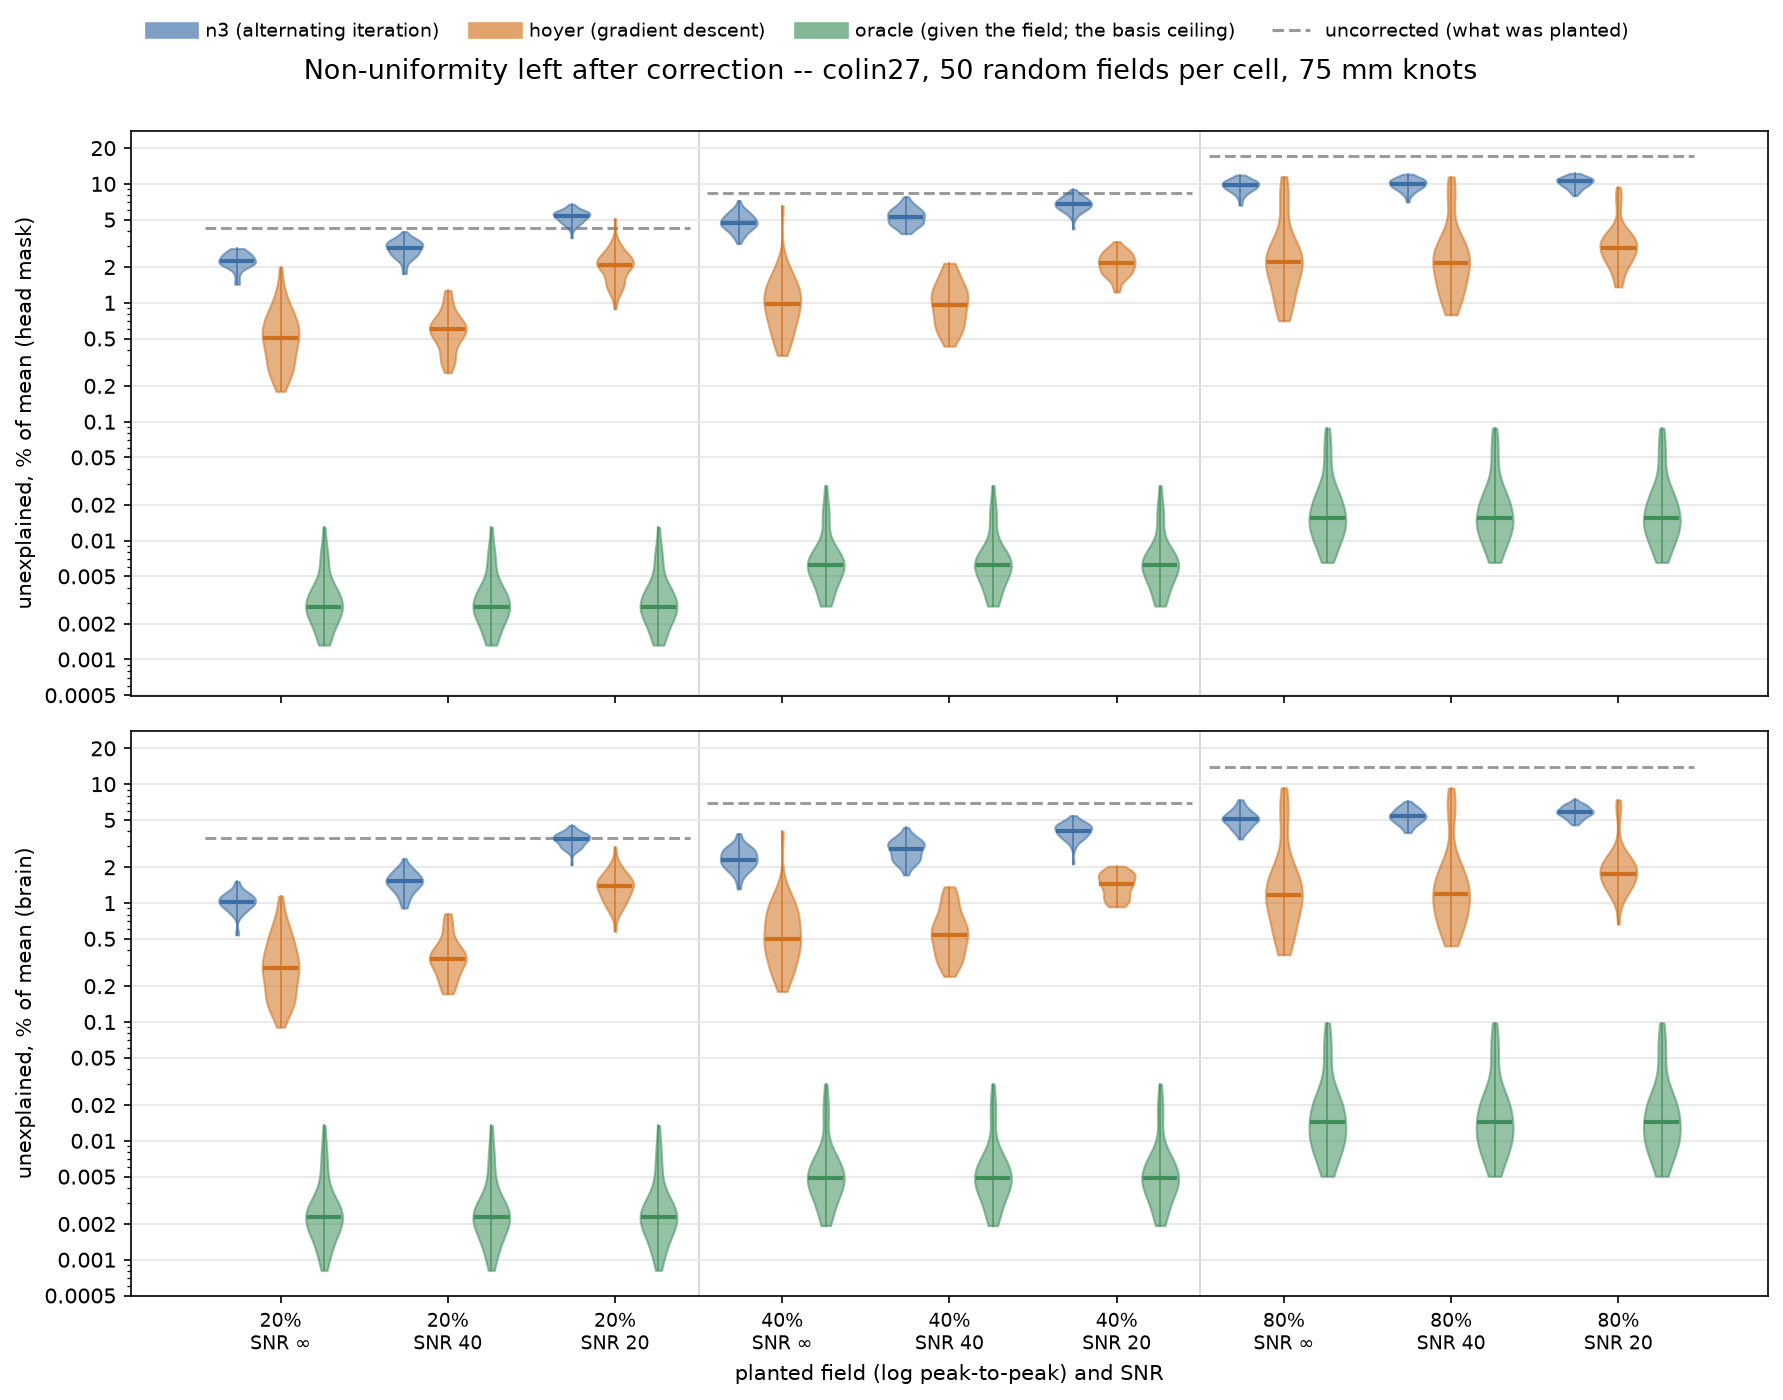
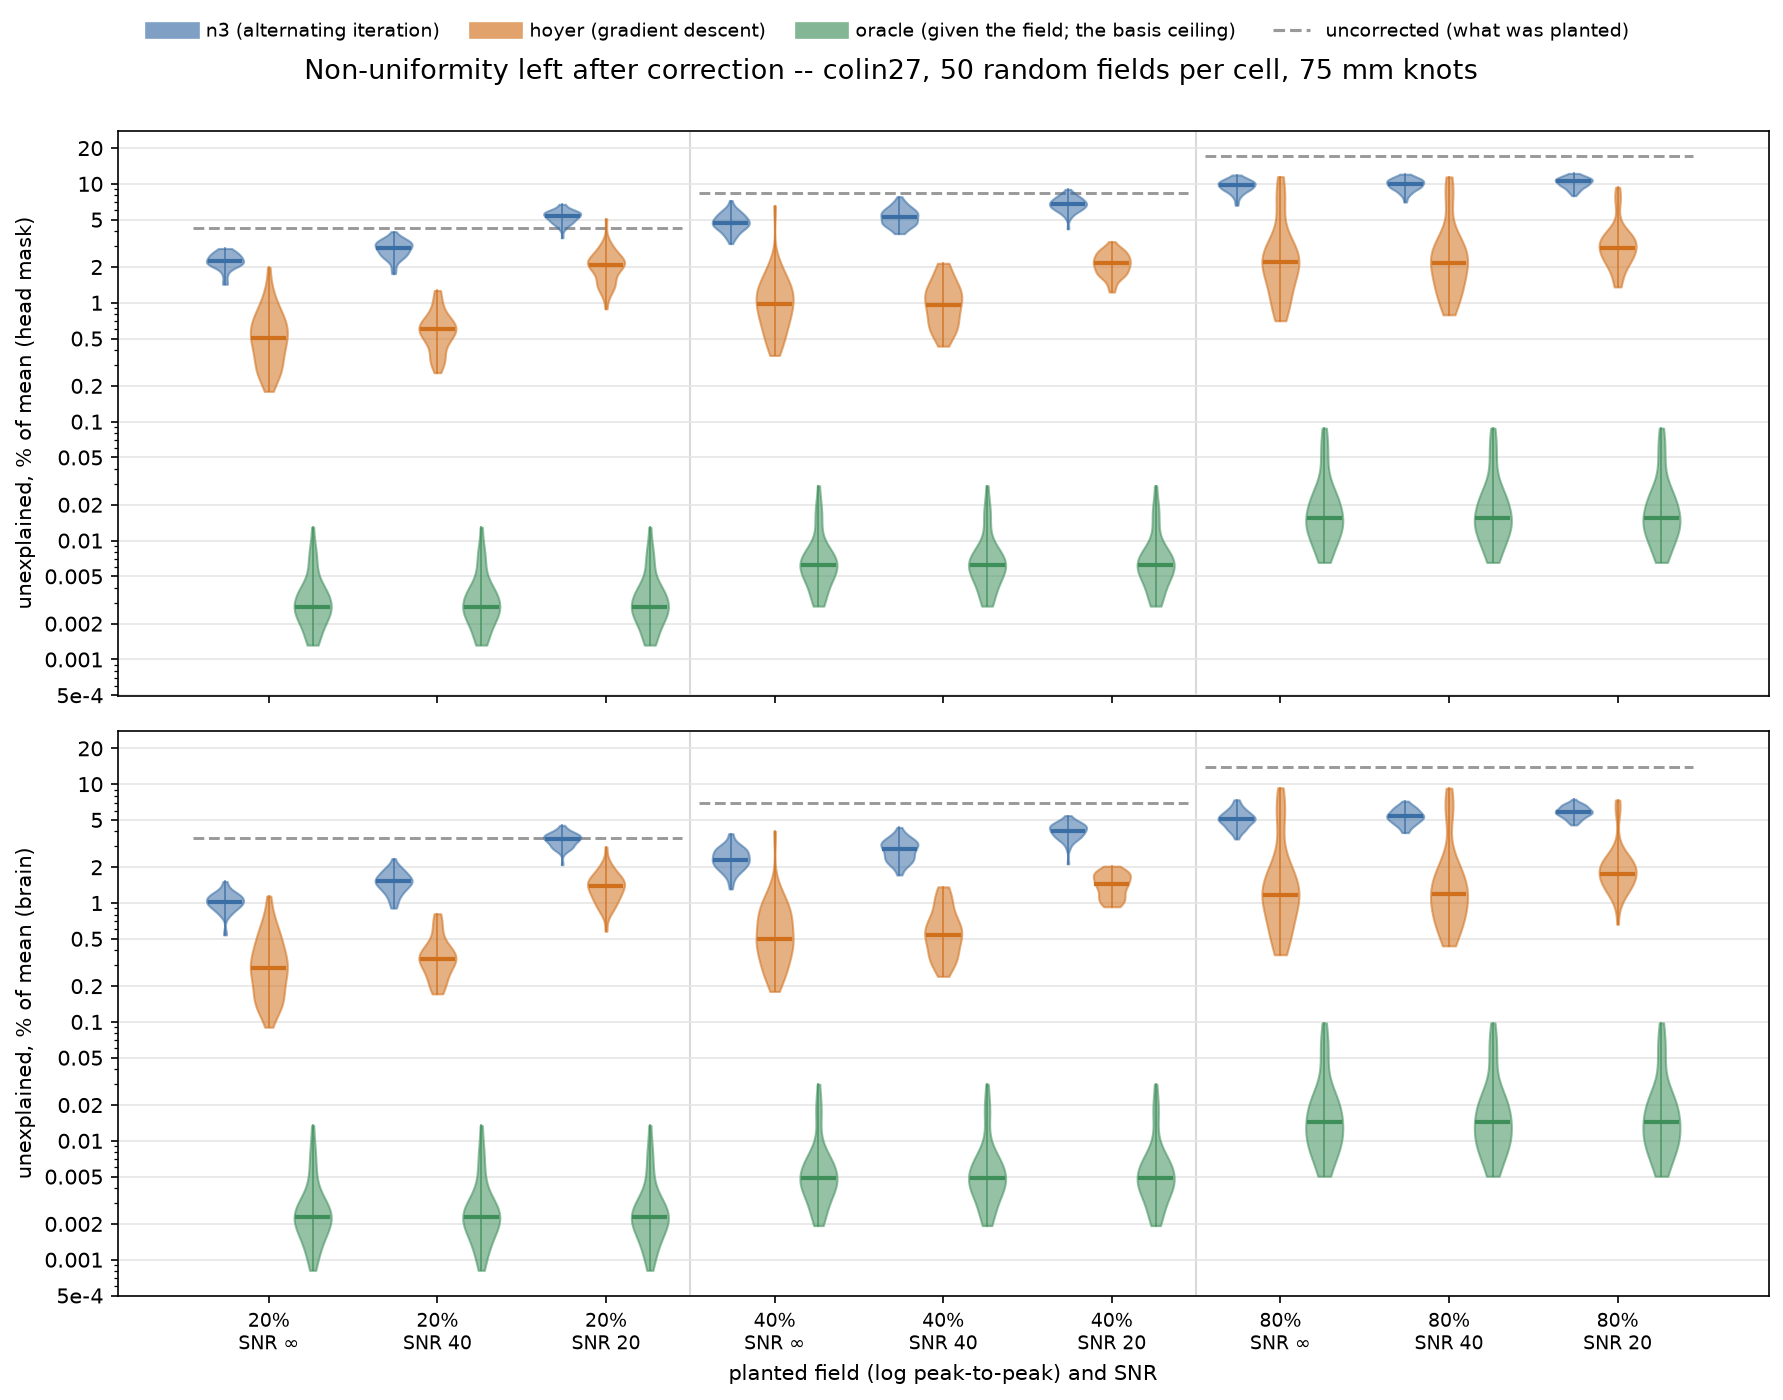
Ask whether the solver changes the answer, and answer it
Four solvers over the same 450 trials.  On accuracy there is nothing between
them: the distributions coincide, so the difference has to be taken within a
trial, and there it is 2e-5 median with a 3e-2 tail -- the same size and the
same shape as the backend and device perturbations, and from the same cause.
Both trials with a >1% spread are at 20% planted, SNR 20, the knife-edge cell.
No solver is systematically better either: against `normal` each wins about
half the non-ties.

The data does show a split, but not the one the option list suggests.  qr, dr
and blocked agree with each other to every printed digit on 43-88% of trials
and with `normal` on 4%, because the three of them factorize the same stacked
system and `normal` squares the condition number.  So it is {normal} against
{qr, dr, blocked}, not four independent implementations.

The only difference that is real is cost: 0.69s, 1.74s, 2.58s, 2.62s, exactly
the ranking of work done, and normal's 3.8x advantage over dr buys up nothing
measurable in accuracy at this spacing.

Two things this does not establish, both written down next to the tables.  It
says nothing about cross-platform reproducibility, which is the actual case
for qr -- only `normal` was run on the CPU here.  And the null result that no
trial stopped at a different iteration is weak: 439 of 450 ran to the cap, so
only 11 trials had a stopping decision to make.

solvers.png draws it: per-trial difference over six decades on the left, the
[…]

diff --git a/experiments/figures.py b/experiments/figures.py
@@ -61,7 +61,8 @@ def main(argv=None):
     print("%d rows in %s" % (len(rows), args.path))
 
     for name, draw in (("recovery", _recovery), ("runtime", _runtime),
-                       ("implementation", _implementation)):
+                       ("implementation", _implementation),
+                       ("solvers", _solvers)):
         if args.figure not in ("all", name):
             continue
         figure = draw(rows)
@@ -269,6 +270,84 @@ def _implementation(rows):
 
 
 # --------------------------------------------------------------------------
+# The four spline solvers: what they agree on and what they cost.
+# --------------------------------------------------------------------------
+
+#: The order the solvers are drawn in: the normal equations first, then the
+#: three that factorize the stacked system ``[A; sqrt(lambda N) D]``.  That
+#: split is the finding -- the three stacked solvers agree with each other far
+#: more closely than any of them agrees with ``normal``, because they are the
+#: same arithmetic and ``normal`` squares the condition number to form ``AtA``.
+SOLVERS = ("normal", "qr", "dr", "blocked")
+
+
+def _solvers(rows):
+    """Does the solver change the answer, and what does it cost?
+
+    Left: the per-trial relative difference from ``normal``, which is the only
+    honest way to ask -- the four distributions of the score itself lie on top
+    of one another (``implementation.png``), so the difference has to be taken
+    *within* a trial before there is anything to see.  Right: seconds.
+
+    The point of putting them side by side is that they are on wildly
+    different scales: the accuracy panel spans 1e-7 to 1e-1 and is centred at
+    2e-5, the cost panel is a factor of 3.8 top to bottom.
+    """
+    figure, axes = pyplot.subplots(1, 2, figsize=(12, 5))
+    protocol = "fixed30"
+
+    keyed = {solver: {_trial_key(row): row
+                      for row in _select(rows, method="n3", solver=solver,
+                                         protocol=protocol, backend="torch",
+                                         device="cuda")}
+             for solver in SOLVERS}
+    shared = sorted(set.intersection(*(set(rows) for rows in keyed.values())))
+
+    drawn = []
+    for index, solver in enumerate(SOLVERS[1:]):
+        difference = numpy.array(
+            [_relative(float(keyed[solver][key]["unexplained_brain_pct"]),
+                       float(keyed["normal"][key]["unexplained_brain_pct"]))
+             for key in shared])
+        _violin(axes[0], difference, index, COLOUR["n3"], width=0.6,
+                drawn=drawn)
+    axes[0].set_xticks(range(len(SOLVERS) - 1))
+    axes[0].set_xticklabels(SOLVERS[1:])
+    axes[0].set_xlabel("compared against `normal`, per trial")
+    axes[0].set_ylabel("relative difference in the score (brain)")
+    axes[0].set_title("Accuracy: %d matched trials each" % len(shared),
+                      fontsize=11)
+    _log_axis(axes[0], drawn)
+
+    drawn = []
+    for index, solver in enumerate(SOLVERS):
+        _violin(axes[1], numpy.array([float(keyed[solver][key]["seconds"])
+                                      for key in shared]),
+                index, COLOUR["n3"], width=0.6, log=False, drawn=drawn)
+    axes[1].set_xticks(range(len(SOLVERS)))
+    axes[1].set_xticklabels(SOLVERS)
+    axes[1].set_xlabel("spline solver")
+    axes[1].set_ylabel("seconds per estimate")
+    axes[1].set_title("Cost: same trials, same GPU", fontsize=11)
+    _linear_axis(axes[1], drawn)
+
+    figure.suptitle("N3's four spline solvers -- 30 iterations, colin27, "
+                    "75 mm knots", fontsize=13)
+    figure.tight_layout()
+    return figure
+
+
+def _trial_key(row):
+    return (row["seed"], row["amplitude"], row["snr"])
+
+
+def _relative(one, other):
+    """Difference relative to the larger, so it is symmetric and bounded."""
+    largest = max(abs(one), abs(other))
+    return abs(one - other) / largest if largest else 0.0
+
+
+# --------------------------------------------------------------------------
 # Drawing.
 # --------------------------------------------------------------------------
 
@@ -363,10 +442,20 @@ def _grid(axis):
 
 
 def _tick(value):
-    """A tick label without an exponent, at whatever precision it needs."""
+    """A tick label: decimal where that is short, an exponent where it is not.
+
+    ``0.000001`` is nine characters of mostly zeros and hard to tell from
+    ``0.00001`` at a glance, which is the whole difficulty on the solver
+    figure's six-decade axis.  Below a thousandth the labels switch to ``1e-6``
+    -- the ticks are always 1, 2 or 5 times a power of ten, so the mantissa is
+    a single digit and the label stays short.
+    """
     if value >= 1:
         return "%g" % value
-    return "%.*f" % (int(numpy.ceil(-numpy.log10(value))), value)
+    if value >= 1e-3:
+        return "%.*f" % (int(numpy.ceil(-numpy.log10(value))), value)
+    power = int(numpy.floor(numpy.log10(value) + 1e-9))
+    return "%de%d" % (round(value / 10.0 ** power), power)
 
 
 def _parse(argv):
@@ -379,7 +468,7 @@ def _parse(argv):
                         help="directory for the PNGs (default: %(default)s)")
     parser.add_argument("--figure", default="all",
                         choices=("all", "recovery", "runtime",
-                                 "implementation"),
+                                 "implementation", "solvers"),
                         help="which figure to draw (default: all)")
     parser.add_argument("--dpi", type=int, default=150)
     return parser.parse_args(argv)

diff --git a/experiments/README.md b/experiments/README.md
@@ -377,6 +377,7 @@ trials where two backends disagree by 18 %.
 | `results/recovery.png` | the headline: `n3`, `hoyer` and the `oracle` ceiling over all nine cells, head and brain, with the uncorrected level as a dashed line |
 | `results/runtime.png` | wall time per estimate, every configuration in the file |
 | `results/implementation.png` | the three comparisons that should come out flat — solver, backend/device, and the solver's effect on the ceiling |
+| `results/solvers.png` | the solvers asked properly: per-trial difference from `normal` (six decades, log) beside seconds (a factor of 3.8, linear) |
 
 Two conventions worth knowing before reading them. **Densities are estimated
 in log space** wherever the axis is logarithmic: a KDE fitted in linear space
@@ -386,6 +387,72 @@ to their own data**, deliberately — those differences are parts in a hundred,
 and on the decade axis the other figures use they would be one flat line,
 which is a picture of the axis rather than of the measurement. Read the spread
 *within* each violin against the gap *between* them.
+
+## The four solvers, over 450 trials
+
+`--solver` picks how the B-spline normal equations are solved. All four are
+swept at both protocols, on the same trials and the same GPU.
+
+**On accuracy there is nothing to choose between them.** The four score
+distributions lie on top of each other, so the question has to be asked
+*within* a trial:
+
+| against `normal` (brain, `fixed30`) | median | 90th | max | >1 % |
+|---|---|---|---|---|
+| `qr` | 2.0e-5 | 9.5e-5 | 3.0e-2 | 2 of 450 |
+| `dr` | 2.0e-5 | 9.5e-5 | 2.9e-2 | 2 of 450 |
+| `blocked` | 2.1e-5 | 9.2e-5 | 3.7e-2 | 2 of 450 |
+
+That is the same size and the same shape as the backend and device
+perturbations below, and it has the same cause: both trials with a >1 % spread
+are at **20 % planted, SNR 20**, the histogram knife-edge cell. Nor is any
+solver systematically better — against `normal` each wins 215–219 of 450
+(about half of the 431 non-ties), which is what a coin does.
+
+**But they are not four independent implementations, and the data shows the
+split.** How often two solvers agree to every digit written:
+
+| pair | `fixed30` | `default` |
+|---|---|---|
+| `qr` vs `dr` | 88 % | 68 % |
+| `qr` vs `blocked` | 69 % | 44 % |
+| `dr` vs `blocked` | 70 % | 43 % |
+| any of those vs `normal` | **4 %** | **4–5 %** |
+
+`qr`, `dr` and `blocked` all factorize the *same* stacked system
+`[A; sqrt(lambda N) D]` — CLAUDE.md's point that `dr` is `qr` at its anchor
+weight, and `blocked` is `qr` a band at a time. `normal` forms `AtA` and
+squares the condition number. So the honest grouping is `{normal}` against
+`{qr, dr, blocked}`, and the 4 % figure is the price of the squaring showing
+up in the last digits.
+
+**On cost the difference is real**, and it is the only difference that is:
+
+| solver | seconds (`fixed30`) | per iteration | vs `normal` |
+|---|---|---|---|
+| `normal` | **0.69** | 22.9 ms | — |
+| `blocked` | 1.74 | 57.8 ms | 2.5× |
+| `qr` | 2.58 | 85.8 ms | 3.7× |
+| `dr` | 2.62 | 87.3 ms | 3.8× |
+
+At the shipped 75 mm spacing `blocked` has one band and is `qr` plus a sort,
+and `dr` buys nothing until a second `lambda` is asked for — both as CLAUDE.md
+predicts. So on this experiment the ranking is exactly the ranking of work
+done, and `normal`'s 3.8× advantage over `dr` costs nothing measurable in
+accuracy.
+
+**What this does not measure.** CLAUDE.md's case for `qr` is *cross-platform
+reproducibility* — the fitted field moving 3.0e-13 between CPU and GPU instead
+of 2.5e-9. Only `normal` was run on the CPU here, so that claim is untouched
+by these 3,600 trials: this says the solvers agree with each other on one
+device, not that they would drift equally across two. `python3 -m
+tests.convergence --solver qr` is what tests that.
+
+One more null result, weaker than it looks: under `default` **no trial stopped
+at a different iteration** under a different solver. But 439 of 450 ran to the
+50-iteration cap, so only 11 trials had a stopping decision to make. Read it
+as "the stopping rule did not amplify the solver difference on the 11 trials
+that exercised it", not as a general statement.
 
 ## The two backends, over 450 trials
 
@@ -429,7 +496,7 @@ GPU is 8.8× faster than legacy.
 | file | what |
 |---|---|
 | `recovery.csv` | 7,200 trials: 3,600 `n3` on the GPU (4 solvers × 2 protocols × 50 seeds × 3 amplitudes × 3 SNRs), 900 `hoyer` (450 at `--penalty 1e-3 --max-iterations 400` plus the budget sweep), 900 on the CPU — 450 `torch` and 450 `legacy` — for the backend comparison above, and 1,800 `oracle` (4 solvers × 450) for the ceiling |
-| `recovery.png`, `runtime.png`, `implementation.png` | the figures above, from `python3 -m experiments.figures`. Checked in because they summarise a run that is hours long, and regenerated from the CSV rather than maintained by hand |
+| `recovery.png`, `runtime.png`, `implementation.png`, `solvers.png` | the figures above, from `python3 -m experiments.figures`. Checked in because they summarise a run that is hours long, and regenerated from the CSV rather than maintained by hand |
 | `pilot_grid.csv` | the 96-trial `--distance` × `--lambda` pilot for `n3` |
 | `recovery_cpu_partial.csv` | 430 trials from an aborted CPU run, kept as the only CPU sample. Written before `method`/`penalty` existed, so it is in the older column set — `summarize` reads it, `recovery` will refuse to append to it |
 
